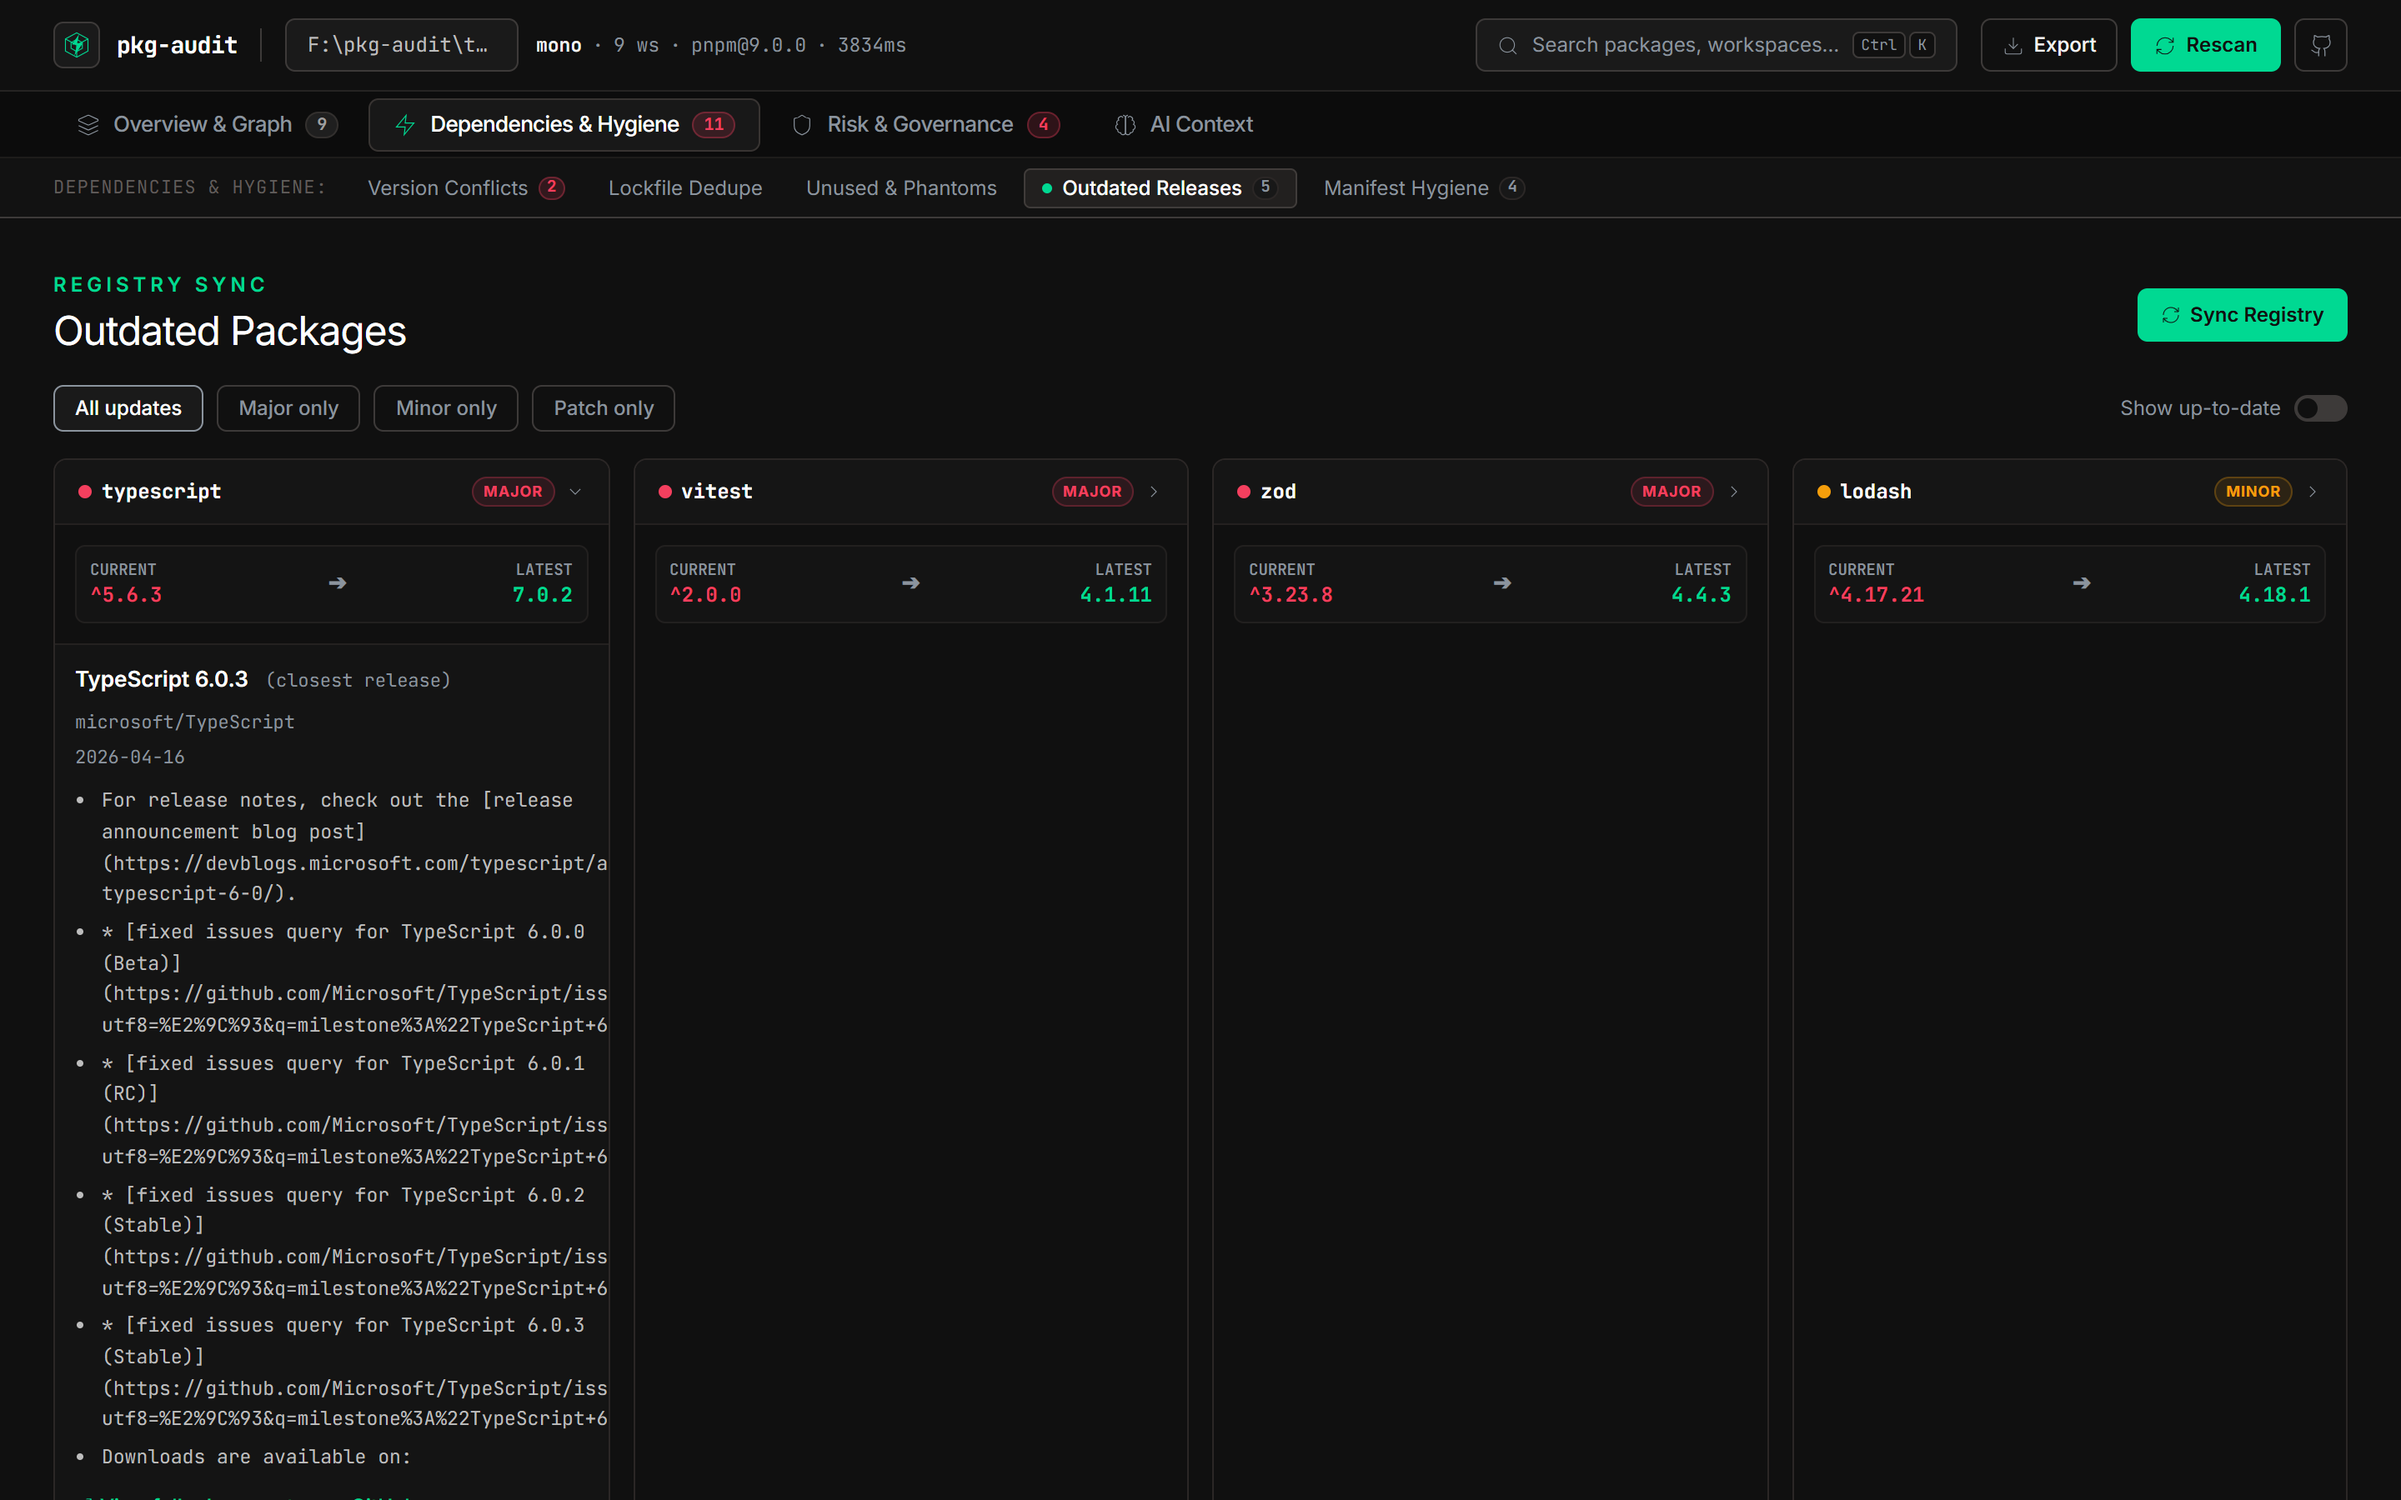
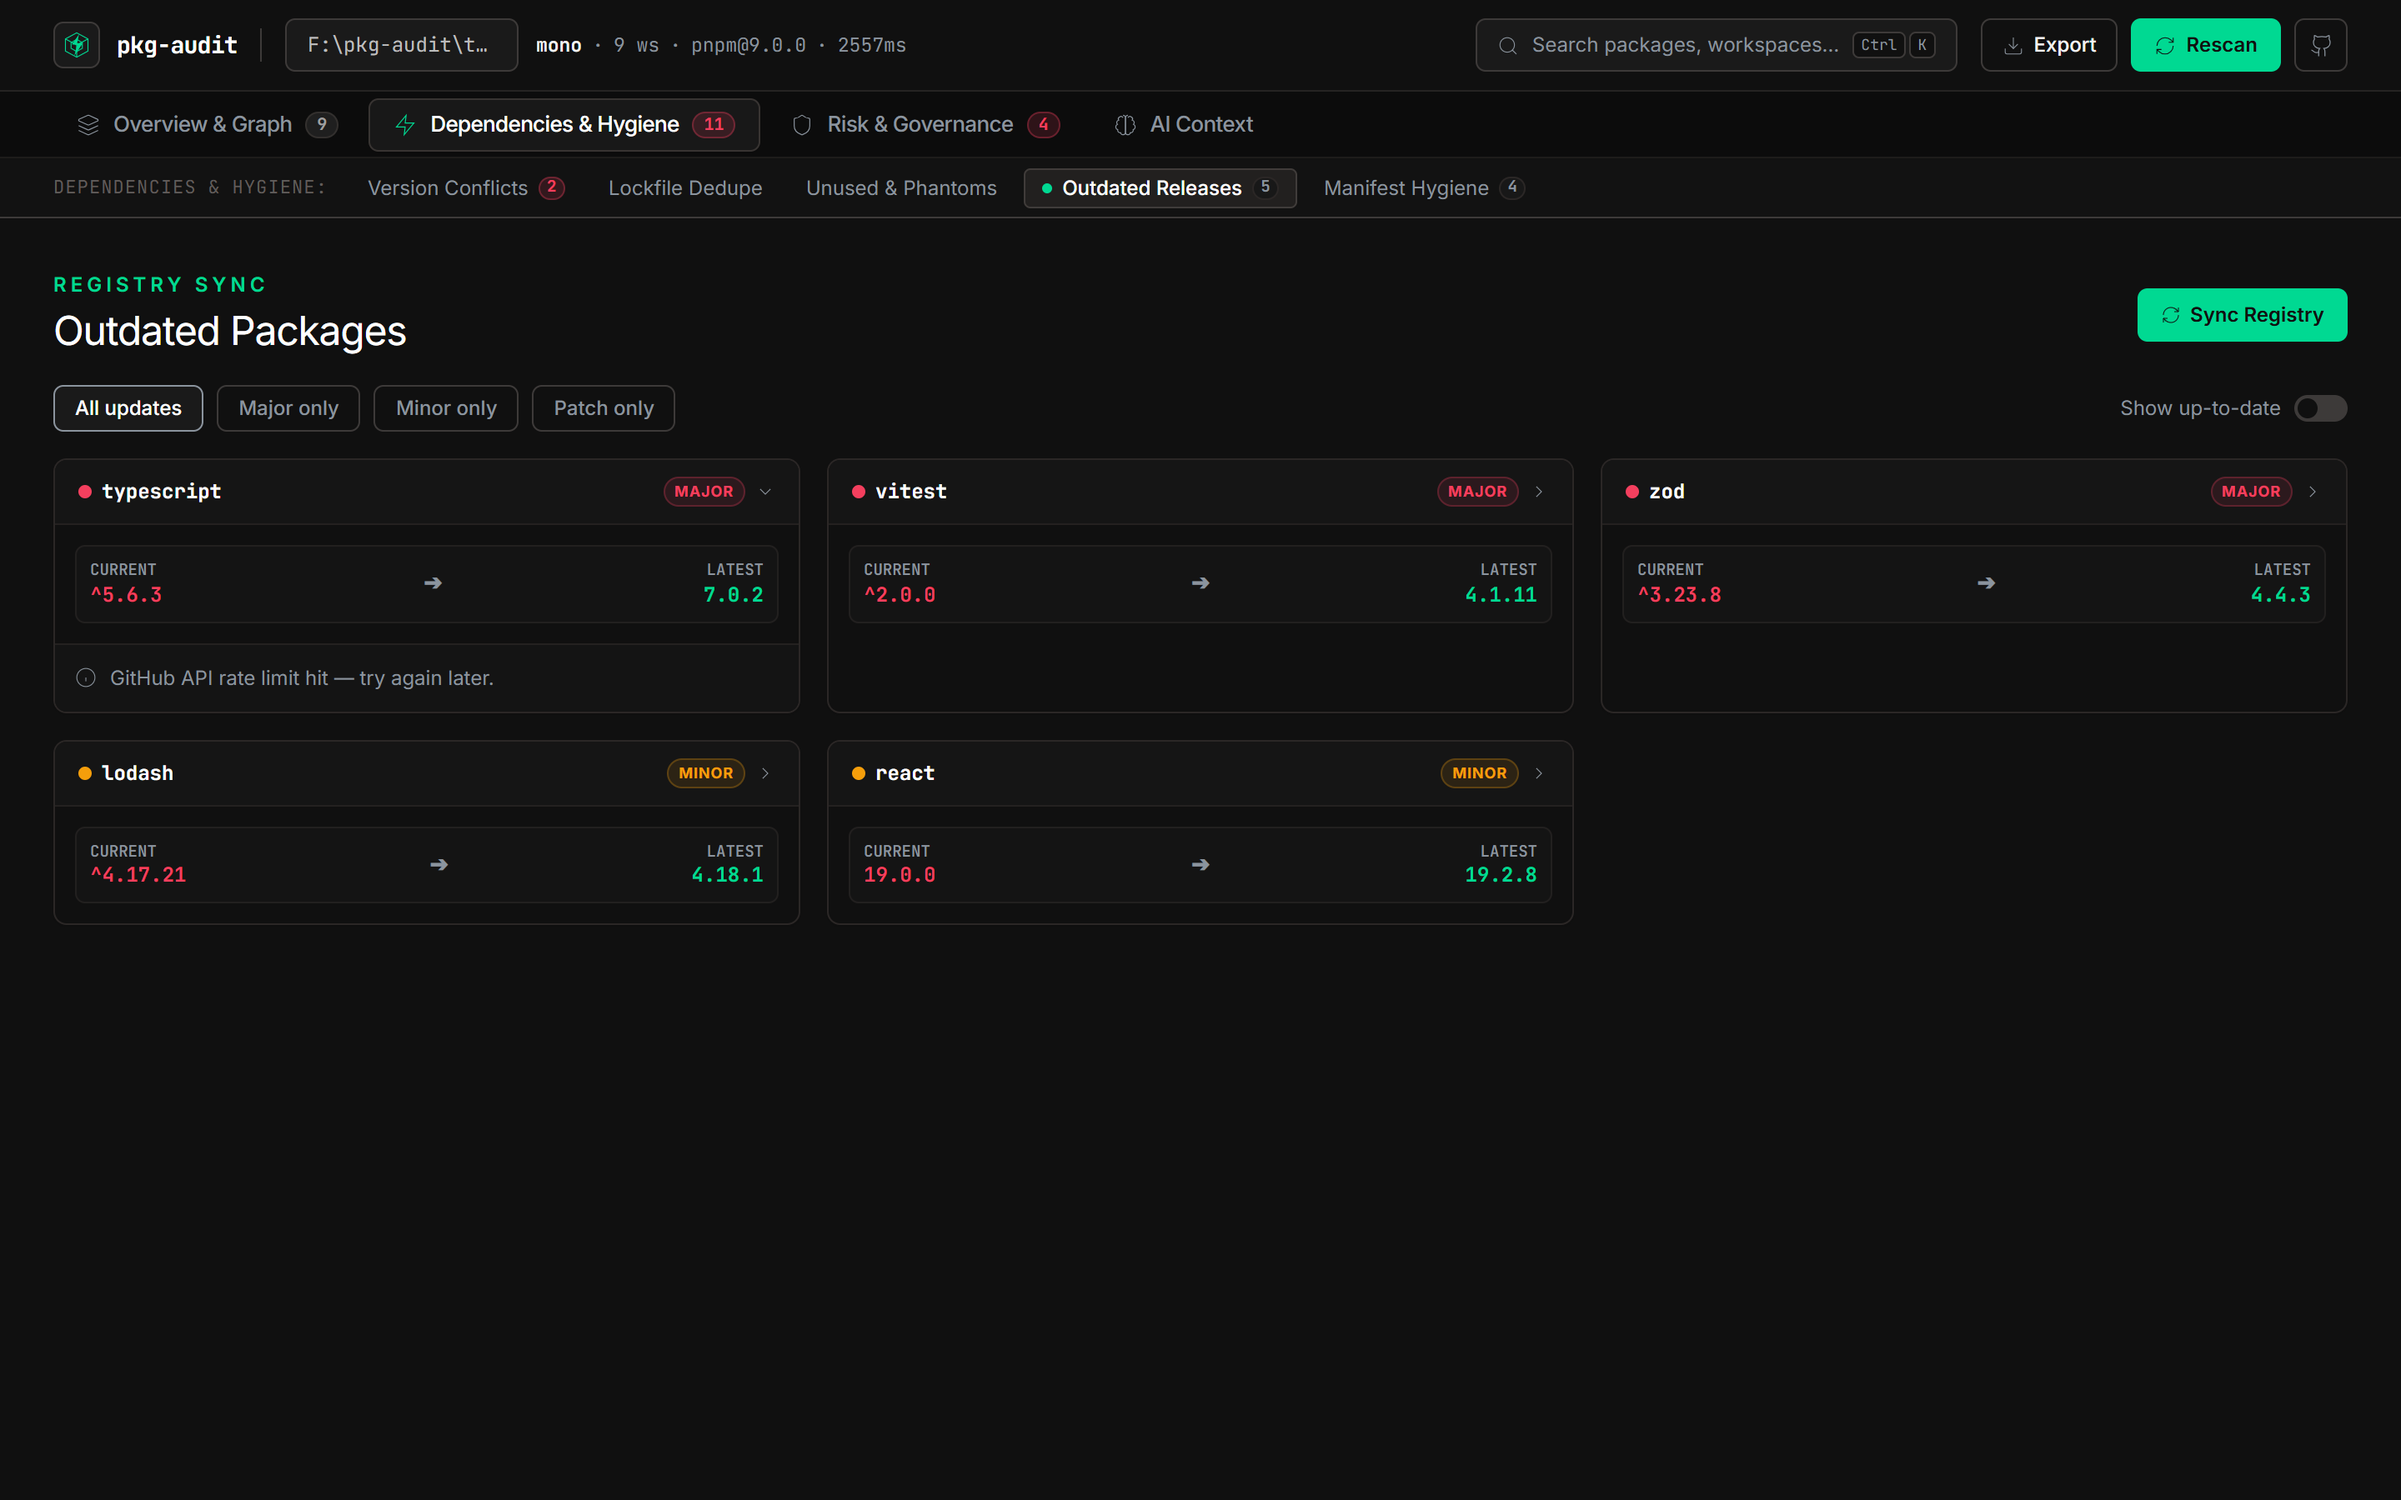
feat(ui): 3-cards outdated layout, live package streaming tickers, isolated in-tab scanning & state merge

diff --git a/src/web/src/components/outdated.tsx b/src/web/src/components/outdated.tsx
@@ -1,4 +1,4 @@
-import { useState } from "preact/hooks"
+import { useEffect, useMemo, useState } from "preact/hooks"
 import type { Changelog, OutdatedRecord, ScanResult } from "../../../types"
 import {
   IconCheckCircle,
@@ -56,7 +56,59 @@ export function Outdated({ data, onOutdated, loading }: OutdatedProps) {
   const [showUpToDate, setShowUpToDate] = useState(false)
   const [expanded, setExpanded] = useState<string | null>(null)
 
+  const depNames = useMemo(
+    () => Array.from(new Set(data.workspaces.flatMap((w) => Object.keys(w.deps)))),
+    [data]
+  )
+  const [streamingIdx, setStreamingIdx] = useState(0)
+
+  useEffect(() => {
+    if (!loading) return
+    const interval = setInterval(() => {
+      setStreamingIdx((i) => (i + 1) % Math.max(1, depNames.length))
+    }, 110)
+    return () => clearInterval(interval)
+  }, [loading, depNames.length])
+
   const outdated = data.outdated
+
+  if (loading && !outdated) {
+    return (
+      <div class="flex flex-col items-center justify-center gap-4 py-28 text-center animate-fade-in">
+        <div class="relative flex items-center justify-center">
+          <div class="w-16 h-16 rounded-full border-2 border-[#3d3a39] border-t-[#00d992] spinner" />
+          <div class="absolute text-[#00d992]">
+            <IconPackage size={24} />
+          </div>
+        </div>
+        <div>
+          <h2 class="text-base font-semibold text-[#ffffff]">Querying npm Registry & Releases…</h2>
+          <p class="text-xs text-[#8b949e] mt-1 max-w-md">
+            Scanning upstream npm registry for latest versions and fetching GitHub changelogs across all
+            workspaces.
+          </p>
+        </div>
+
+        {/* Live Streaming Package Ticker */}
+        <div class="flex items-center gap-2.5 px-4 py-2 bg-[#141414] border border-[#2e2a28] rounded-[8px] text-xs font-mono mt-2 shadow-inner max-w-[420px]">
+          <div class="w-2 h-2 rounded-full bg-[#00d992] animate-pulse shrink-0" />
+          <span class="text-[#8b949e]">Checking</span>
+          <span class="text-[#00d992] font-semibold truncate max-w-[200px]">
+            {depNames[streamingIdx] || "package"}
+          </span>
+          <span class="text-[#605c5a] shrink-0">
+            ({streamingIdx + 1}/{depNames.length})
+          </span>
+        </div>
+
+        {/* Shimmer Progress Track */}
+        <div class="w-64 h-1 bg-[#1a1a1a] rounded-full overflow-hidden relative mt-2">
+          <div class="absolute inset-y-0 w-32 bg-gradient-to-r from-transparent via-[#00d992] to-transparent progress-shimmer" />
+        </div>
+      </div>
+    )
+  }
+
   if (!outdated) {
     return (
       <div class="flex flex-col items-center justify-center gap-3.5 py-24 text-[#8b949e] text-center">
@@ -114,6 +166,19 @@ export function Outdated({ data, onOutdated, loading }: OutdatedProps) {
         </button>
       </div>
 
+      {loading && (
+        <div class="flex items-center justify-between gap-3 px-4 py-2.5 bg-[#00d992]/10 border border-[#00d992]/25 rounded-[8px] text-xs">
+          <div class="flex items-center gap-2.5 min-w-0">
+            <IconRefreshCw size={13} className="spinner text-[#00d992] shrink-0" />
+            <span class="text-[#00d992] font-medium font-mono">Syncing Registry:</span>
+            <span class="font-mono text-[#f2f2f2] truncate">
+              Checking {depNames[streamingIdx]} ({streamingIdx + 1}/{depNames.length})
+            </span>
+          </div>
+          <span class="text-[11px] font-mono text-[#8b949e] shrink-0">Fetching changelogs…</span>
+        </div>
+      )}
+
       {outdated.networkErrors.length > 0 && (
         <div class="flex items-center gap-2 px-4 py-2.5 bg-[#f59e0b]/10 border border-[#f59e0b]/25 rounded-[6px] text-xs text-[#f59e0b]">
           <IconInfo size={14} />
@@ -165,8 +230,8 @@ export function Outdated({ data, onOutdated, loading }: OutdatedProps) {
         </div>
       </div>
 
-      {/* Outdated cards 4-in-a-row responsive grid */}
-      <div class="grid grid-cols-1 sm:grid-cols-2 lg:grid-cols-3 xl:grid-cols-4 gap-3.5">
+      {/* Outdated cards 3-in-a-row responsive grid */}
+      <div class="grid grid-cols-1 md:grid-cols-2 lg:grid-cols-3 gap-4">
         {items.map((item) => (
           <div
             key={item.name}

diff --git a/src/web/src/app.tsx b/src/web/src/app.tsx
@@ -76,6 +76,7 @@ export function App() {
 
   const [scanMessage, setScanMessage] = useState("Scanning monorepo dependencies…")
   const [scanTargetDir, setScanTargetDir] = useState<string | undefined>(undefined)
+  const [isMainScan, setIsMainScan] = useState(!embedded)
 
   const data: ScanResult | null = result ?? embedded ?? null
 
@@ -86,7 +87,10 @@ export function App() {
   }, [])
 
   useEffect(() => {
-    if (!embedded) void scan()
+    if (!embedded) {
+      setIsMainScan(true)
+      void scan().finally(() => setIsMainScan(false))
+    }
   }, [embedded, scan])
 
   useEffect(() => {
@@ -134,19 +138,25 @@ export function App() {
 
   const handleScan = useCallback(
     async (dir?: string, opts?: ScanUiOptions) => {
-      if (opts?.outdated) {
-        setScanMessage("Checking npm registry & release changelogs…")
-      } else if (opts?.security) {
-        setScanMessage("Scanning OSV vulnerability database…")
-      } else if (dir && dir !== data?.root) {
+      if (opts?.outdated || opts?.security) {
+        setIsMainScan(false)
+        return scan(dir, opts)
+      }
+
+      setIsMainScan(true)
+      if (dir && dir !== data?.root) {
         setScanMessage("Analyzing workspace dependencies…")
         setScanTargetDir(dir)
       } else {
         setScanMessage("Rescanning workspace dependencies…")
       }
 
-      const [res] = await Promise.all([scan(dir, opts), new Promise((r) => setTimeout(r, 450))])
-      return res
+      try {
+        const [res] = await Promise.all([scan(dir, opts), new Promise((r) => setTimeout(r, 450))])
+        return res
+      } finally {
+        setIsMainScan(false)
+      }
     },
     [data?.root, scan]
   )
@@ -229,7 +239,7 @@ export function App() {
   return (
     <div class="bg-[#101010] min-h-screen text-[#f2f2f2]">
       <SplashScreen
-        visible={loading || (!data && !error && !embedded)}
+        visible={isMainScan && (loading || (!data && !error && !embedded))}
         message={scanMessage}
         dir={scanTargetDir || data?.root}
       />

diff --git a/src/web/src/components/security.tsx b/src/web/src/components/security.tsx
@@ -56,6 +56,20 @@ export function SecurityView({ data, loading, notify, onScanSecurity, onFix }: S
 
   const security = data.security
 
+  const depNames = useMemo(
+    () => Array.from(new Set(data.workspaces.flatMap((w) => Object.keys(w.deps)))),
+    [data]
+  )
+  const [streamingIdx, setStreamingIdx] = useState(0)
+
+  useEffect(() => {
+    if (!loading) return
+    const interval = setInterval(() => {
+      setStreamingIdx((i) => (i + 1) % Math.max(1, depNames.length))
+    }, 110)
+    return () => clearInterval(interval)
+  }, [loading, depNames.length])
+
   // Auto-scan on initial visit if security data hasn't been fetched yet
   useEffect(() => {
     if (!security && !loading && onScanSecurity) {
@@ -153,6 +167,23 @@ export function SecurityView({ data, loading, notify, onScanSecurity, onFix }: S
             Cross-referencing declared dependencies across all monorepo workspaces against public CVE & GitHub
             advisories.
           </p>
+        </div>
+
+        {/* Live Streaming Package Ticker */}
+        <div class="flex items-center gap-2.5 px-4 py-2 bg-[#141414] border border-[#2e2a28] rounded-[8px] text-xs font-mono mt-2 shadow-inner max-w-[420px]">
+          <div class="w-2 h-2 rounded-full bg-[#00d992] animate-pulse shrink-0" />
+          <span class="text-[#8b949e]">Auditing</span>
+          <span class="text-[#00d992] font-semibold truncate max-w-[200px]">
+            {depNames[streamingIdx] || "dependencies"}
+          </span>
+          <span class="text-[#605c5a] shrink-0">
+            ({streamingIdx + 1}/{depNames.length})
+          </span>
+        </div>
+
+        {/* Shimmer Progress Track */}
+        <div class="w-64 h-1 bg-[#1a1a1a] rounded-full overflow-hidden relative mt-2">
+          <div class="absolute inset-y-0 w-32 bg-gradient-to-r from-transparent via-[#00d992] to-transparent progress-shimmer" />
         </div>
       </div>
     )

diff --git a/src/web/src/hooks/use-scan.ts b/src/web/src/hooks/use-scan.ts
@@ -44,7 +44,22 @@ export function useScan() {
         setError({ message: body.error ?? `Request failed (${res.status})`, code: body.code })
         return null
       }
-      setResult(body)
+      setResult((prev) => {
+        if (!prev || prev.root !== body.root) {
+          return body
+        }
+        return {
+          ...body,
+          outdated:
+            body.outdated !== null && body.outdated !== undefined ? body.outdated : (prev.outdated ?? null),
+          security: body.security !== undefined ? body.security : prev.security,
+          deprecation:
+            body.deprecation !== null && body.deprecation !== undefined
+              ? body.deprecation
+              : (prev.deprecation ?? null),
+          dedupe: body.dedupe !== undefined ? body.dedupe : prev.dedupe,
+        }
+      })
       return body
     } catch (err) {
       setError({
